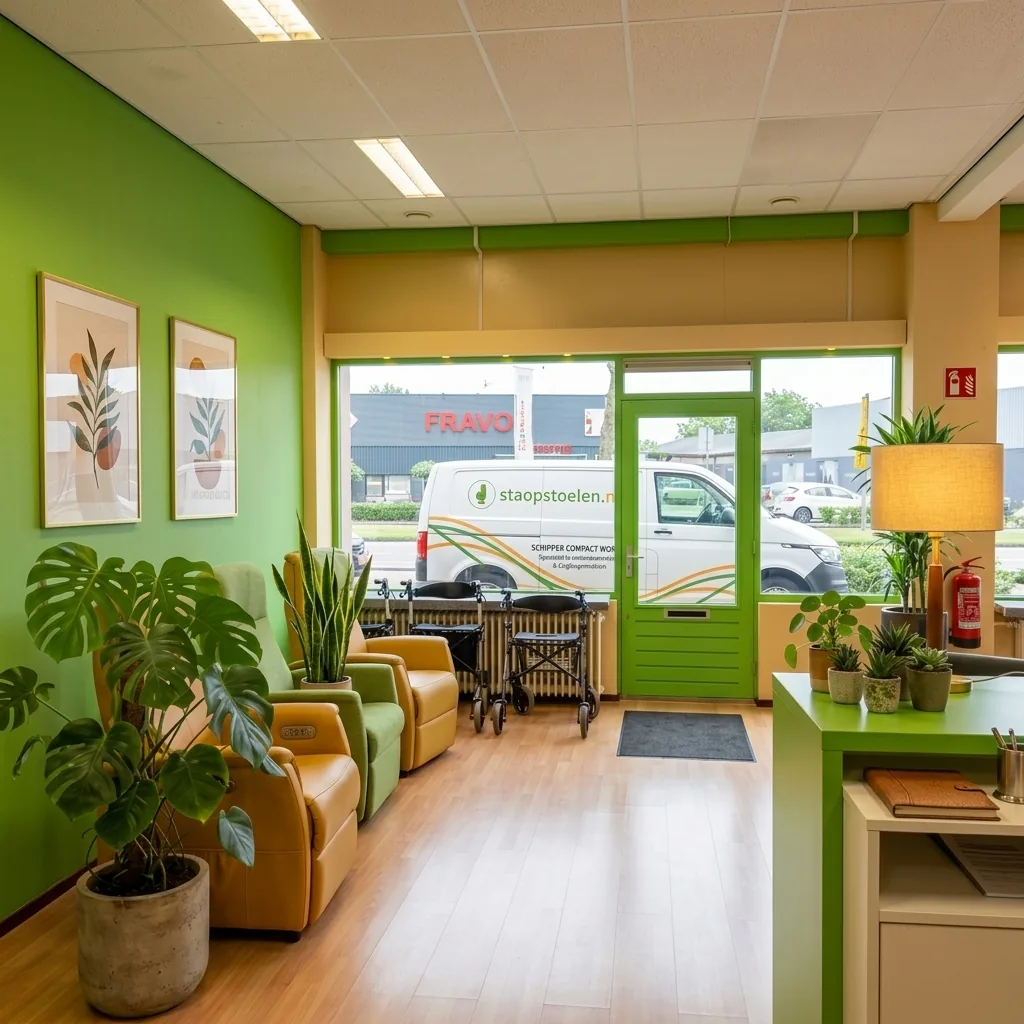
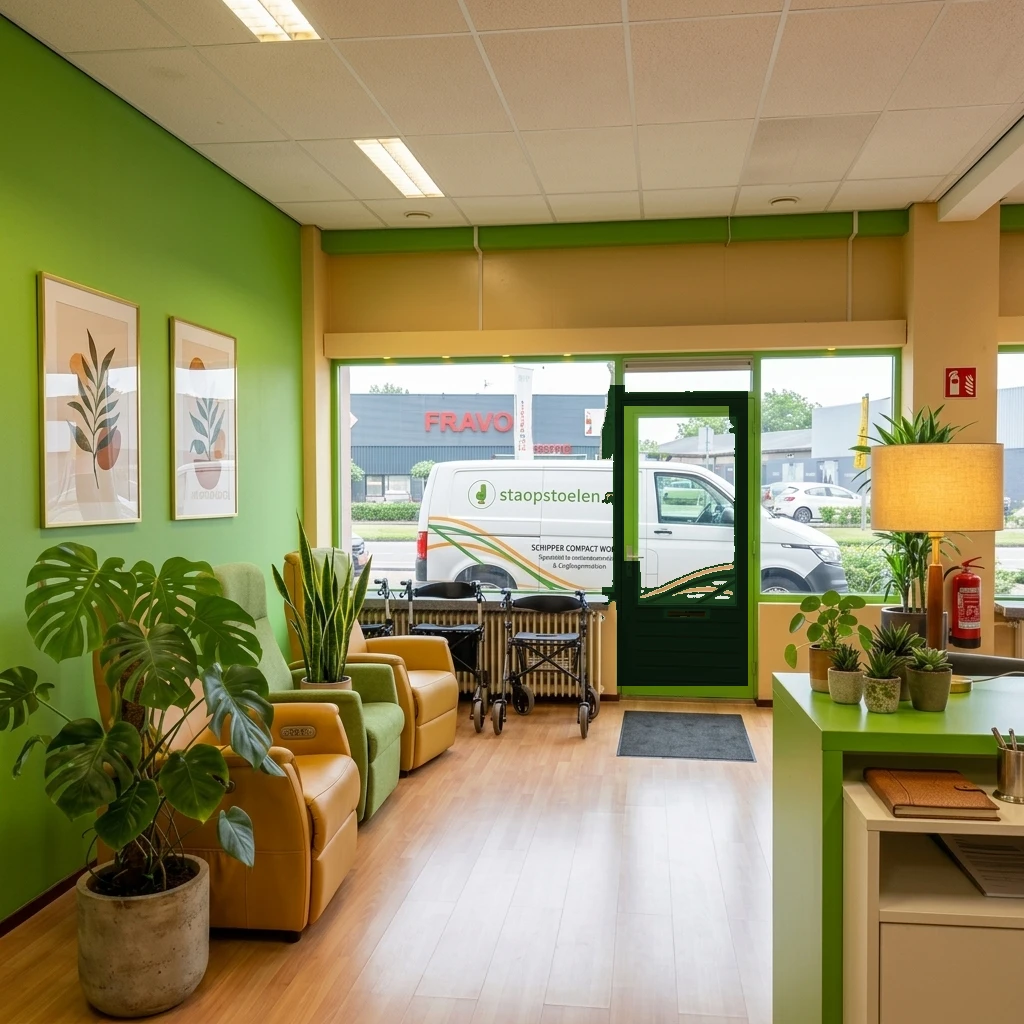
Voeg authentiek opgepompte showroom sfeerimpressies en voor-na vergelijking toe aan winkel.html

Changed region(s): [[0.5625, 0.375, 0.75, 0.6875]]

diff --git a/winkel.html b/winkel.html
@@ -637,40 +637,90 @@
         </div>
       </div>
 
-      <!-- Sfeerimpressies Gallery: Opgepompt met behoud van de echte winkel -->
-      <h4 style="color: var(--color-forest-dark); font-size: 1.3rem; margin-bottom: 16px;">Sfeerbeelden: Opgepompte Situatie</h4>
+      <!-- Directe Vergelijking: Origineel vs. Opgepompt -->
+      <h4 style="color: var(--color-forest-dark); font-size: 1.35rem; margin-bottom: 8px;">Directe Sfeerimpressies: Origineel vs. Opgepompt</h4>
+      <p style="color: var(--color-gray); font-size: 1.05rem; line-height: 1.6; margin-bottom: 24px;">
+        Geen verbouwing of fantasiepand, maar de <strong>echte Dordtse winkel</strong> aan de Merwedestraat 239: verrijkt met warme saliegroene wanden, monumentengroene accenten, 2700K sfeerverlichting en officiële Certified Fitform &amp; 5-Punts Zitmeting wanddecoratie.
+      </p>
+
+      <div style="display: grid; grid-template-columns: repeat(auto-fit, minmax(320px, 1fr)); gap: 24px; margin-bottom: 48px;">
+        
+        <!-- Paar 1: Stoelen & Wand -->
+        <div style="background: #ffffff; border-radius: 12px; overflow: hidden; box-shadow: 0 4px 16px rgba(0,0,0,0.06); border: 1px solid var(--color-gray-light);">
+          <div style="padding: 16px 20px; background: var(--color-cream-dark); border-bottom: 1px solid var(--color-gray-light); font-weight: 700; color: var(--color-forest-dark);">
+            1. Binnenruimte: Stoelenopstelling &amp; Achterwand
+          </div>
+          <div style="display: grid; grid-template-columns: 1fr 1fr; gap: 8px; padding: 12px;">
+            <div style="position: relative;">
+              <span style="position: absolute; top: 8px; left: 8px; background: rgba(15,23,42,0.85); color: #fff; font-size: 0.7rem; font-weight: 700; padding: 3px 8px; border-radius: 4px; z-index: 2;">ORIGINEEL</span>
+              <img src="assets/showroom_origineel_stoelen.webp" alt="Originele stoelenopstelling Merwedestraat" style="width: 100%; height: 210px; object-fit: cover; border-radius: 8px;">
+            </div>
+            <div style="position: relative;">
+              <span style="position: absolute; top: 8px; left: 8px; background: var(--color-forest); color: #fff; font-size: 0.7rem; font-weight: 700; padding: 3px 8px; border-radius: 4px; z-index: 2;">OPGEPOMPT</span>
+              <img src="assets/showroom_sfeer_stoelen_opgepompt.webp?v=1.0.1" alt="Opgepompte showroom met saliegroene wand en Fitform zegels" style="width: 100%; height: 210px; object-fit: cover; border-radius: 8px; border: 2px solid var(--color-sage);">
+            </div>
+          </div>
+          <div style="padding: 12px 20px 18px; font-size: 0.92rem; color: var(--color-gray); line-height: 1.5;">
+            <strong>Verfijningen:</strong> Warme saliegroene wandafwerking met behoud van alle schaduwen en dieptewerking, officiële Certified Fitform Partner plaque en 5-punts zitmeting poster in de bestaande wissellijsten, plus warme 2700K sfeerverlichting op de stoelen.
+          </div>
+        </div>
+
+        <!-- Paar 2: Etalage & Pui -->
+        <div style="background: #ffffff; border-radius: 12px; overflow: hidden; box-shadow: 0 4px 16px rgba(0,0,0,0.06); border: 1px solid var(--color-gray-light);">
+          <div style="padding: 16px 20px; background: var(--color-cream-dark); border-bottom: 1px solid var(--color-gray-light); font-weight: 700; color: var(--color-forest-dark);">
+            2. Etalage &amp; Zicht op de Merwedestraat
+          </div>
+          <div style="display: grid; grid-template-columns: 1fr 1fr; gap: 8px; padding: 12px;">
+            <div style="position: relative;">
+              <span style="position: absolute; top: 8px; left: 8px; background: rgba(15,23,42,0.85); color: #fff; font-size: 0.7rem; font-weight: 700; padding: 3px 8px; border-radius: 4px; z-index: 2;">ORIGINEEL</span>
+              <img src="assets/showroom_origineel_etalage.webp" alt="Origineel zicht op de etalage Merwedestraat" style="width: 100%; height: 210px; object-fit: cover; border-radius: 8px;">
+            </div>
+            <div style="position: relative;">
+              <span style="position: absolute; top: 8px; left: 8px; background: var(--color-forest); color: #fff; font-size: 0.7rem; font-weight: 700; padding: 3px 8px; border-radius: 4px; z-index: 2;">OPGEPOMPT</span>
+              <img src="assets/showroom_sfeer_etalage_opgepompt.webp?v=1.0.1" alt="Opgepompte etalage met monumentengroen en warme verlichting" style="width: 100%; height: 210px; object-fit: cover; border-radius: 8px; border: 2px solid var(--color-sage);">
+            </div>
+          </div>
+          <div style="padding: 12px 20px 18px; font-size: 0.92rem; color: var(--color-gray); line-height: 1.5;">
+            <strong>Verfijningen:</strong> Uitgelichte en warme winkelruimte met saliegroene accentwand, ingelijst Certified Fitform keurmerk, monumentengroene kozijnen en 100% behoud van het authentieke Merwedestraat straatbeeld door de ramen.
+          </div>
+        </div>
+
+      </div>
+
+      <!-- Sfeerimpressies Gallery: Styling details -->
+      <h4 style="color: var(--color-forest-dark); font-size: 1.3rem; margin-bottom: 16px;">Aanvullende Stylingdetails &amp; Donkergroene Voordeur</h4>
       <div class="gallery-grid" style="margin-top: 0; margin-bottom: 48px;">
         
-        <!-- Foto 1: Oranje stoel in etalage met echt zicht naar buiten -->
+        <!-- Foto 1: Oranje stoel in etalage met echt zicht naar buiten en donkergroene deur -->
         <div class="gallery-item" style="border: 3px solid var(--color-sage);">
           <div class="gallery-img-container" style="position: relative;">
-            <span style="position: absolute; top: 12px; left: 12px; background: var(--color-forest); color: #ffffff; font-size: 0.75rem; font-weight: 700; padding: 4px 10px; border-radius: 6px; z-index: 2; text-transform: uppercase;">Etalage Opgepompt</span>
-            <img src="assets/showroom_orange_chair.png?v=1.0.55" alt="Oranje stoel prominent in de etalage met rollators weggehaald" class="gallery-img">
+            <span style="position: absolute; top: 12px; left: 12px; background: var(--color-forest); color: #ffffff; font-size: 0.75rem; font-weight: 700; padding: 4px 10px; border-radius: 6px; z-index: 2; text-transform: uppercase;">Hero Etalage</span>
+            <img src="assets/showroom_orange_chair.png?v=1.0.56" alt="Oranje stoel prominent in de etalage met donkergroene deur en echt uitzicht" class="gallery-img">
           </div>
           <div class="gallery-caption">
-            <strong>Etalage zonder rollators:</strong> De bestaande pui en het vertrouwde zicht naar de Merwedestraat, maar nu met een prachtige lederen stoel prominent in het raam.
+            <strong>Etalage met monumentengroene voordeur:</strong> De bestaande pui en het authentieke Dordtse uitzicht naar de overkant (Fravo &amp; bus), met monumentengroene entree en heldere etalageruit.
           </div>
         </div>
 
         <!-- Foto 2: Entree met merkpanelen en kleur op de wand -->
         <div class="gallery-item" style="border: 3px solid var(--color-sage);">
           <div class="gallery-img-container" style="position: relative;">
-            <span style="position: absolute; top: 12px; left: 12px; background: var(--color-forest); color: #ffffff; font-size: 0.75rem; font-weight: 700; padding: 4px 10px; border-radius: 6px; z-index: 2; text-transform: uppercase;">Wand &amp; Entree Opgepompt</span>
-            <img src="assets/showroom_pimped_1.png" alt="Sfeervolle entree met kleur op de wand en merkpanelen" class="gallery-img">
+            <span style="position: absolute; top: 12px; left: 12px; background: var(--color-forest); color: #ffffff; font-size: 0.75rem; font-weight: 700; padding: 4px 10px; border-radius: 6px; z-index: 2; text-transform: uppercase;">Wand &amp; Entree</span>
+            <img src="assets/showroom_pimped_1.png?v=1.0.1" alt="Sfeervolle entree met kleur op de wand en merkpanelen" class="gallery-img">
           </div>
           <div class="gallery-caption">
-            <strong>Kleur op de bestaande wand:</strong> Zachtgroene wandafwerking met behoud van de vertrouwde structuur, vloer en entree.
+            <strong>Wandpanelen &amp; Kleur:</strong> Zachtgroene wandafwerking met behoud van de vertrouwde structuur, vloer en entree.
           </div>
         </div>
 
-        <!-- Foto 3: Zithoek met warme verlichting -->
+        <!-- Foto 3: Zithoek met monumentengroene voordeur -->
         <div class="gallery-item" style="border: 3px solid var(--color-sage);">
           <div class="gallery-img-container" style="position: relative;">
-            <span style="position: absolute; top: 12px; left: 12px; background: var(--color-forest); color: #ffffff; font-size: 0.75rem; font-weight: 700; padding: 4px 10px; border-radius: 6px; z-index: 2; text-transform: uppercase;">Proefzithoek Opgepompt</span>
-            <img src="assets/showroom_pimped_2.png" alt="Gezellige zithoek met warme verlichting en plantenkunst" class="gallery-img">
+            <span style="position: absolute; top: 12px; left: 12px; background: var(--color-forest); color: #ffffff; font-size: 0.75rem; font-weight: 700; padding: 4px 10px; border-radius: 6px; z-index: 2; text-transform: uppercase;">Proefzithoek</span>
+            <img src="assets/showroom_pimped_2.png?v=1.0.56" alt="Gezellige zithoek met monumentengroene deur en warme verlichting" class="gallery-img">
           </div>
           <div class="gallery-caption">
-            <strong>Warme zithoek:</strong> Sfeervolle hoekverlichting en ingelijste plantenkunst tegen een warme wandkleur.
+            <strong>Warme zithoek &amp; monumentengroen:</strong> Sfeervolle hoekverlichting, authentieke laminaatvloer en de monumentengroene voordeur.
           </div>
         </div>
 
